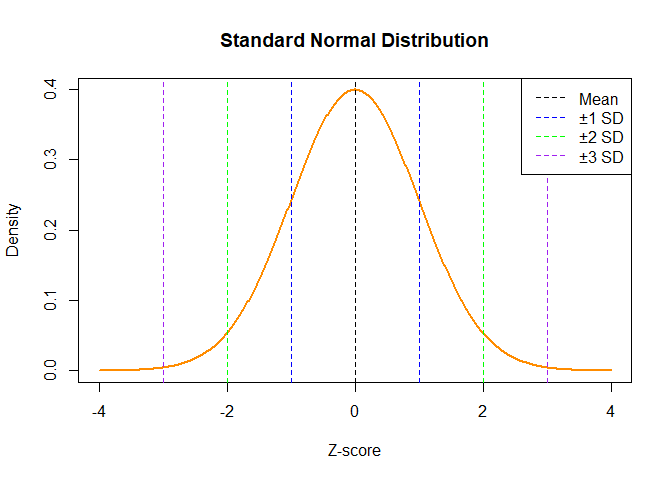
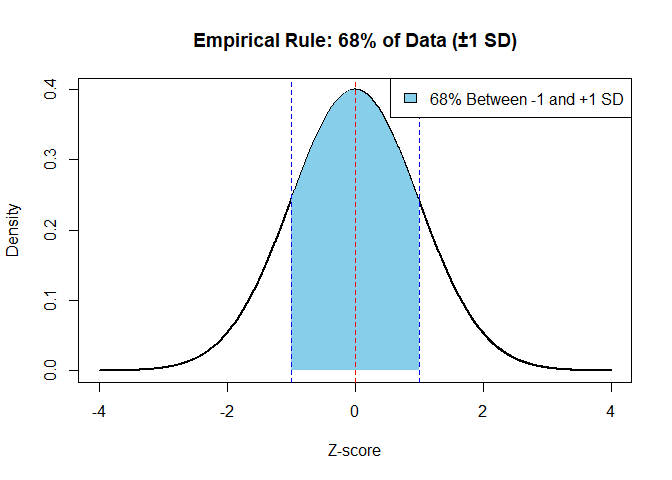
ND empirical rule updated

diff --git a/chapters/Probability-Distribution/Normal-Distribution.md b/chapters/Probability-Distribution/Normal-Distribution.md
@@ -7,7 +7,16 @@
 
 # Normal Distribution?
 
-## The **Normal Distribution** is a **bell-shaped** curve that shows how values in a dataset are **evenly spread** around a central average (mean). Most values are close to the average, and fewer values appear as you move further away.
+The **Normal Distribution** is a **bell-shaped** curve that shows how
+values in a dataset are **evenly spread** around a central average
+(mean). Most values are close to the average, and fewer values appear as
+you move further away.
+
+### Normal Distribution Plot
+
+![](Normal-Distribution_files/figure-markdown_strict/unnamed-chunk-1-1.png)
+
+------------------------------------------------------------------------
 
 <table>
 <colgroup>
@@ -87,6 +96,8 @@ This rule helps understand how values fall within standard deviations:
 
 This is very helpful for quickly estimating spread.
 
+![](Normal-Distribution_files/figure-markdown_strict/unnamed-chunk-2-1.png)
+
 ### What Does “Normal Distribution” Mean?
 
 -   It represents the **ideal pattern** for naturally varying data
@@ -95,7 +106,11 @@ This is very helpful for quickly estimating spread.
     real-world behavior
 
 -   It serves as the **foundation for many statistical techniques**
-    (like t-tests, confidence intervals, and regression)
+    (like t-tests, confidence intervals, and regression) \`\`\`
+
+![](Normal-Distribution_files/figure-markdown_strict/unnamed-chunk-3-1.png)
+
+![](Normal-Distribution_files/figure-markdown_strict/unnamed-chunk-4-1.png)
 
 ------------------------------------------------------------------------
 
@@ -113,7 +128,7 @@ it forms a **bell-shaped curve** — this is a normal distribution.
 The formula for the normal distribution is:
 
 $$
-\large f(x) = \frac{1}{\sqrt{2\pi\sigma^2}} e^{-\frac{(x - \mu)^2}{2\sigma^2}}
+\Large f(x) = \frac{1}{\sqrt{2\pi\sigma^2}} e^{-\frac{(x - \mu)^2}{2\sigma^2}}
 $$
 
 Where:
@@ -144,10 +159,6 @@ probability.
 
 ------------------------------------------------------------------------
 
-### Normal Distribution Plot
-
-![](Normal-Distribution_files/figure-markdown_strict/unnamed-chunk-1-1.png)
-
 ### Importance of Normal Distribution
 
 -   Many natural measurements (height, weight, IQ) follow it
@@ -173,7 +184,7 @@ $$
 
 #### Standard Normal Curve
 
-![](Normal-Distribution_files/figure-markdown_strict/unnamed-chunk-2-1.png)
+![](Normal-Distribution_files/figure-markdown_strict/unnamed-chunk-5-1.png)
 
 ### Real-Life Uses
 
